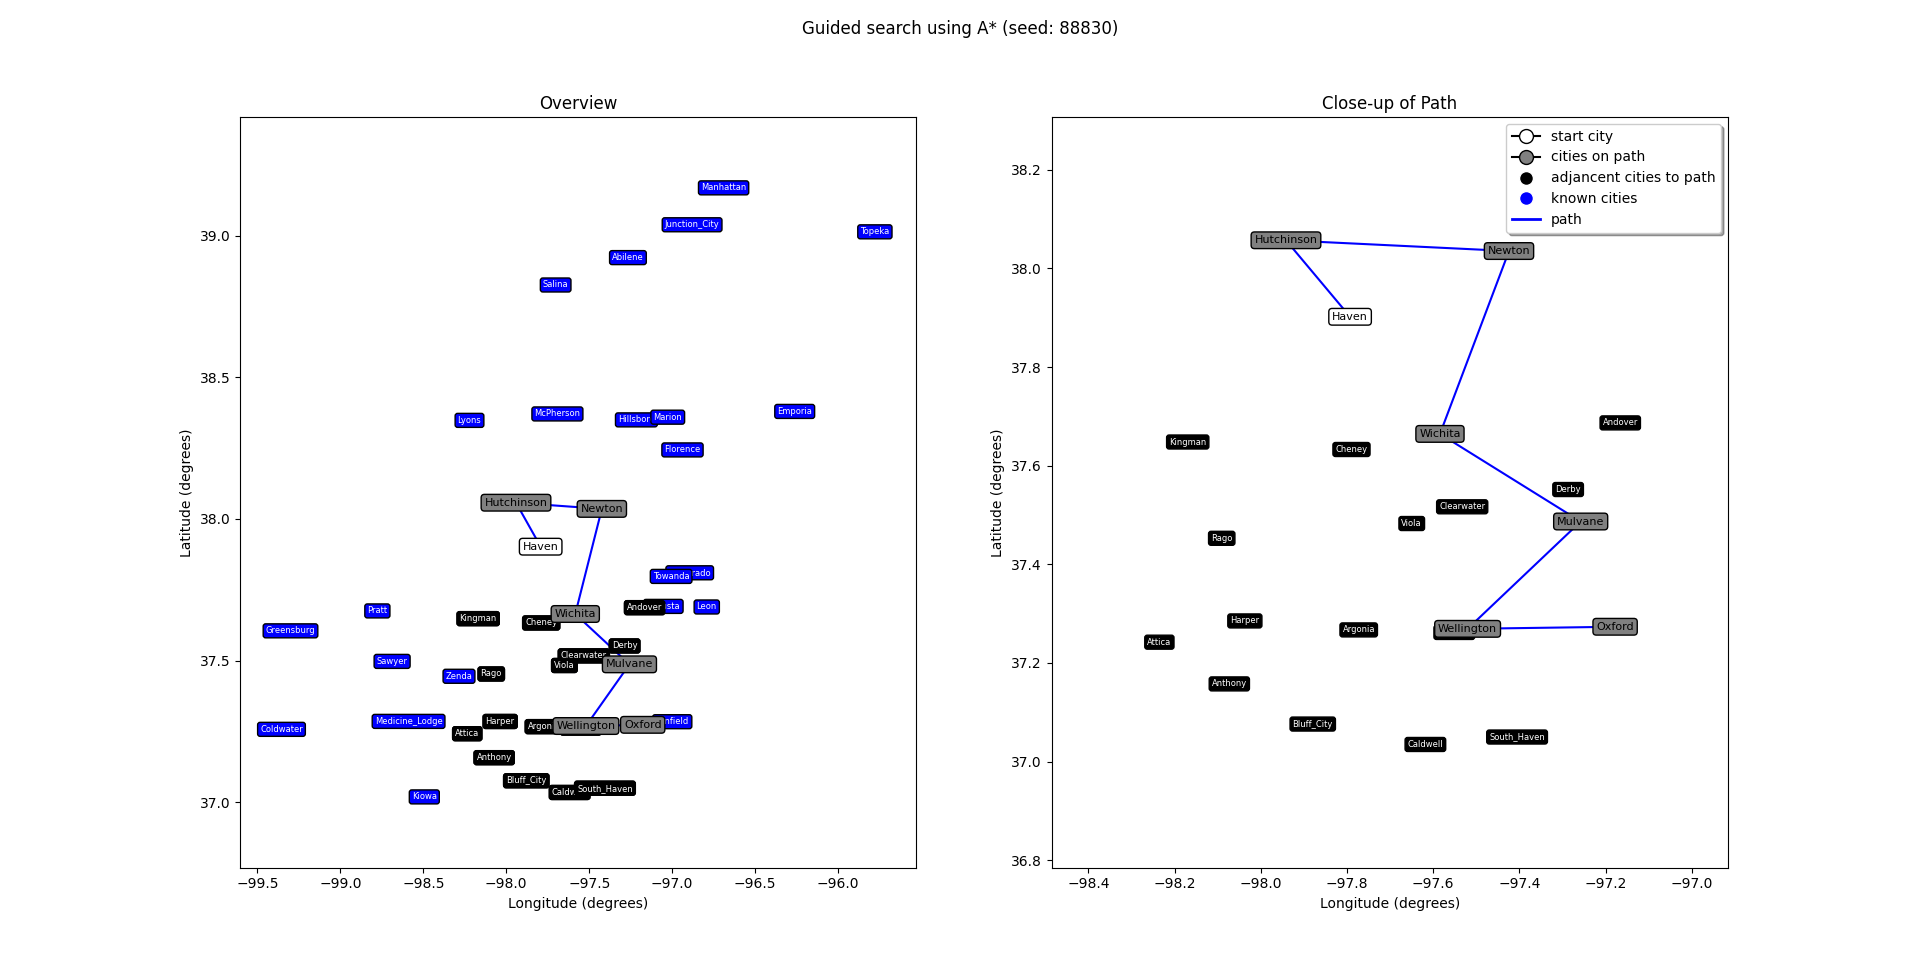
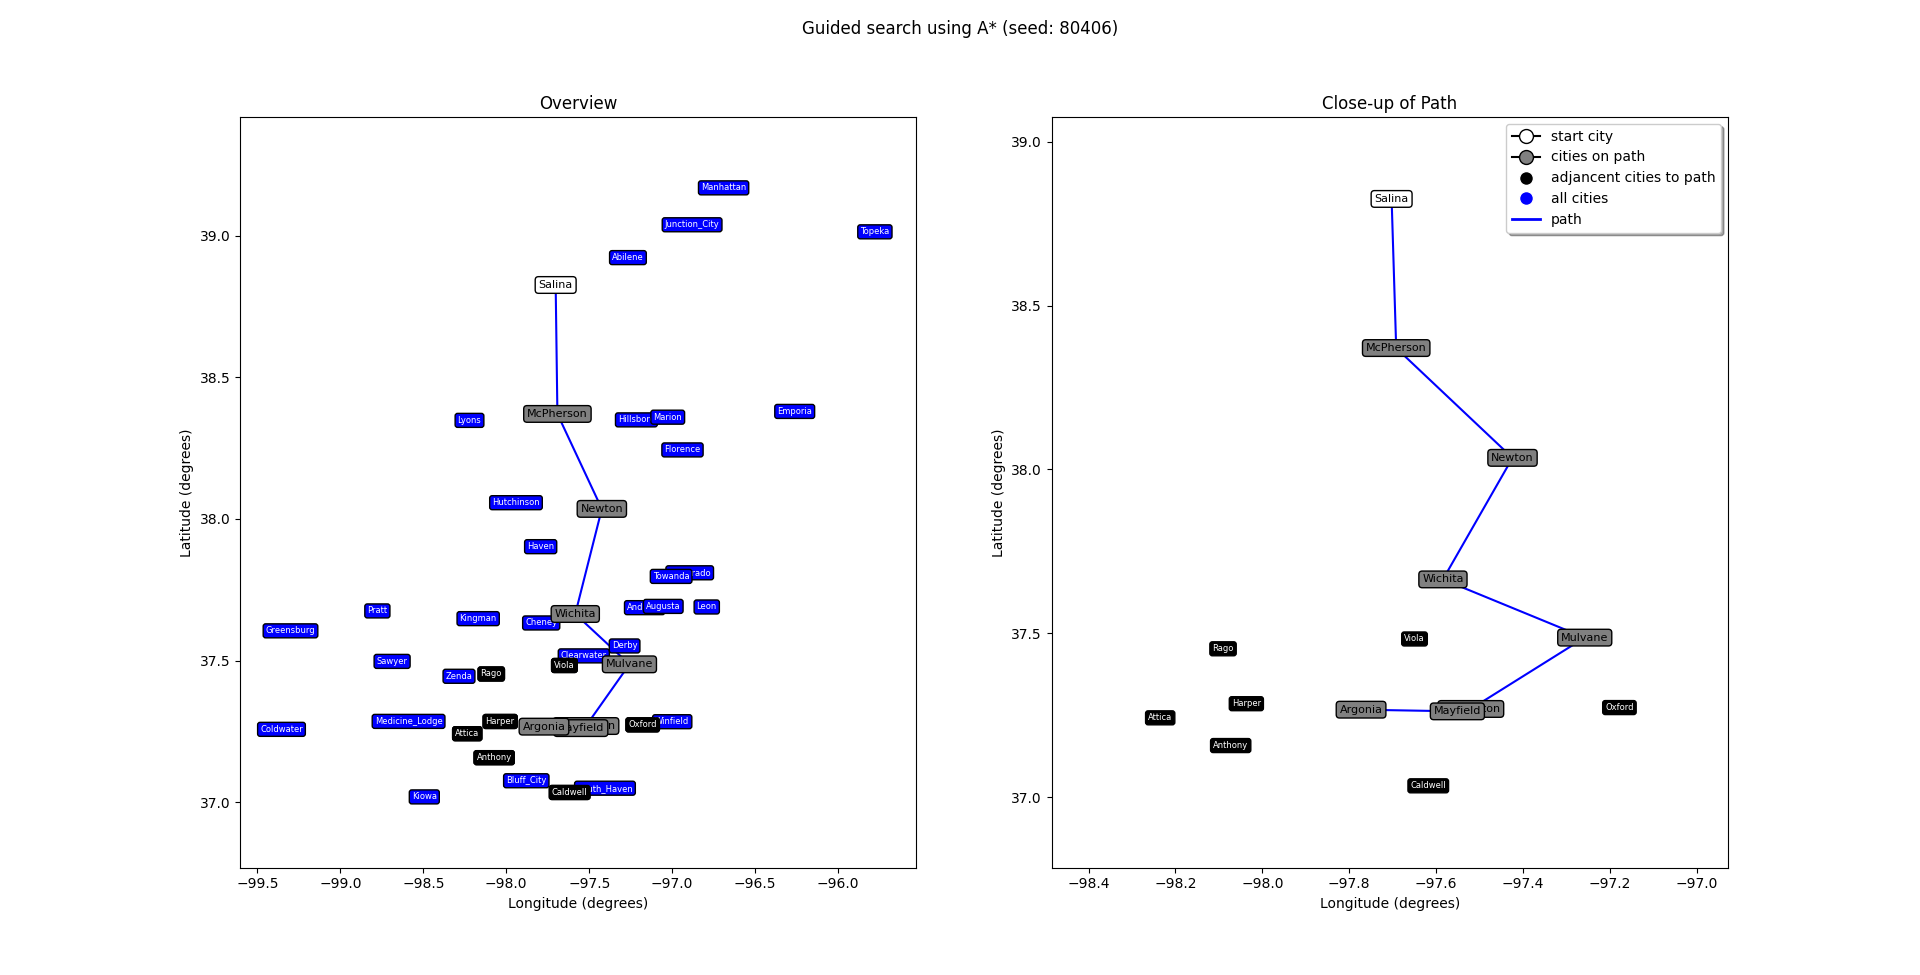
comments, yes

diff --git a/HW1_GuidedSearch/main.py b/HW1_GuidedSearch/main.py
@@ -62,7 +62,7 @@ def main() -> None:
     # seed = 65204
     random.seed(seed)
 
-
+    # randomly pick start and goal
     start: City = random.choice(list(cities.values()))
     while True:
         goal: City = random.choice(list(cities.values()))
@@ -72,35 +72,35 @@ def main() -> None:
     aStar: AStar = AStar(start, goal)
     aStar.find_path()
 
-    fig, (ax1, ax2) = plt.subplots(1, 2)
+    fig, (full_view_plot, close_up_plot) = plt.subplots(1, 2)
     fig.suptitle(f"Guided search using A* (seed: {seed})")
 
-    # AX1
-    ax1.set_title("Overview")
-    Plot.setup_plot(ax1, cities.values())
-    Plot.set_grid_bounds(ax1, cities.values())
+    # full_view_plot
+    full_view_plot.set_title("Overview")
+    Plot.setup_plot(full_view_plot, cities.values())
+    Plot.set_grid_bounds(full_view_plot, cities.values())
     Plot.plot_cities(
-        ax1, 
+        full_view_plot, 
         [city for city in cities.values() if city not in aStar.path], 
         color="blue"
     )
     Plot.plot_cities(
-        ax1, 
+        full_view_plot, 
         [city for city in aStar.closed_set if city not in aStar.path], 
         color="black"
     )
-    Plot.plot_path(ax1, aStar.path)
+    Plot.plot_path(full_view_plot, aStar.path)
 
-    # AX2
-    ax2.set_title("Close-up of Path")
-    Plot.setup_plot(ax2, cities.values())
-    Plot.set_grid_bounds(ax2, aStar.closed_set)
+    # close_up_plot
+    close_up_plot.set_title("Close-up of Path")
+    Plot.setup_plot(close_up_plot, cities.values())
+    Plot.set_grid_bounds(close_up_plot, aStar.closed_set)
     Plot.plot_cities(
-        ax2, 
+        close_up_plot, 
         [city for city in aStar.closed_set if city not in aStar.path], 
         color="black"
     )
-    Plot.plot_path(ax2, aStar.path)
+    Plot.plot_path(close_up_plot, aStar.path)
     Plot.legend()
 
     plt.show()

diff --git a/HW1_GuidedSearch/AStar.py b/HW1_GuidedSearch/AStar.py
@@ -41,19 +41,26 @@ class AStar:
 
     def find_path(self) -> list[City]:
 
+        # while current city is not goal
         while self._current_city != self.goal:
+
+            # get new city with lowest total cost
             self._current_city = min(
                 self._open_set.values(),
                 key=lambda city: city.total_cost
             )
 
             del self._open_set[self._current_city.name]
-            
+
             self.add_adjacencies_to_open_set()
 
             self._closed_set[self._current_city.name] = self._current_city
+
+        # we've found goal
+
         self._closed_set[self._current_city.name] = self._current_city
 
+        # build the path, goal to start
         self._path = [self._closed_set[self.goal.name]]
         while self._path[-1].parent:
             self._path.append(self._closed_set[self._path[-1].parent.name])

diff --git a/HW1_GuidedSearch/Plot.py b/HW1_GuidedSearch/Plot.py
@@ -51,7 +51,7 @@ class Plot:
                 plt.Line2D([0], [0], marker='o', color='black', label='start city', markerfacecolor='white', markersize=10),
                 plt.Line2D([0], [0], marker='o', color='black', label='cities on path', markerfacecolor='grey', markersize=10),
                 plt.Line2D([0], [0], marker='o', color='white', label='adjancent cities to path', markerfacecolor='black', markersize=10),
-                plt.Line2D([0], [0], marker='o', color='white', label='known cities', markerfacecolor='blue', markersize=10),
+                plt.Line2D([0], [0], marker='o', color='white', label='all cities', markerfacecolor='blue', markersize=10),
                 plt.Line2D([0], [0], color='blue', lw=2, label='path'),
             ]
         )
